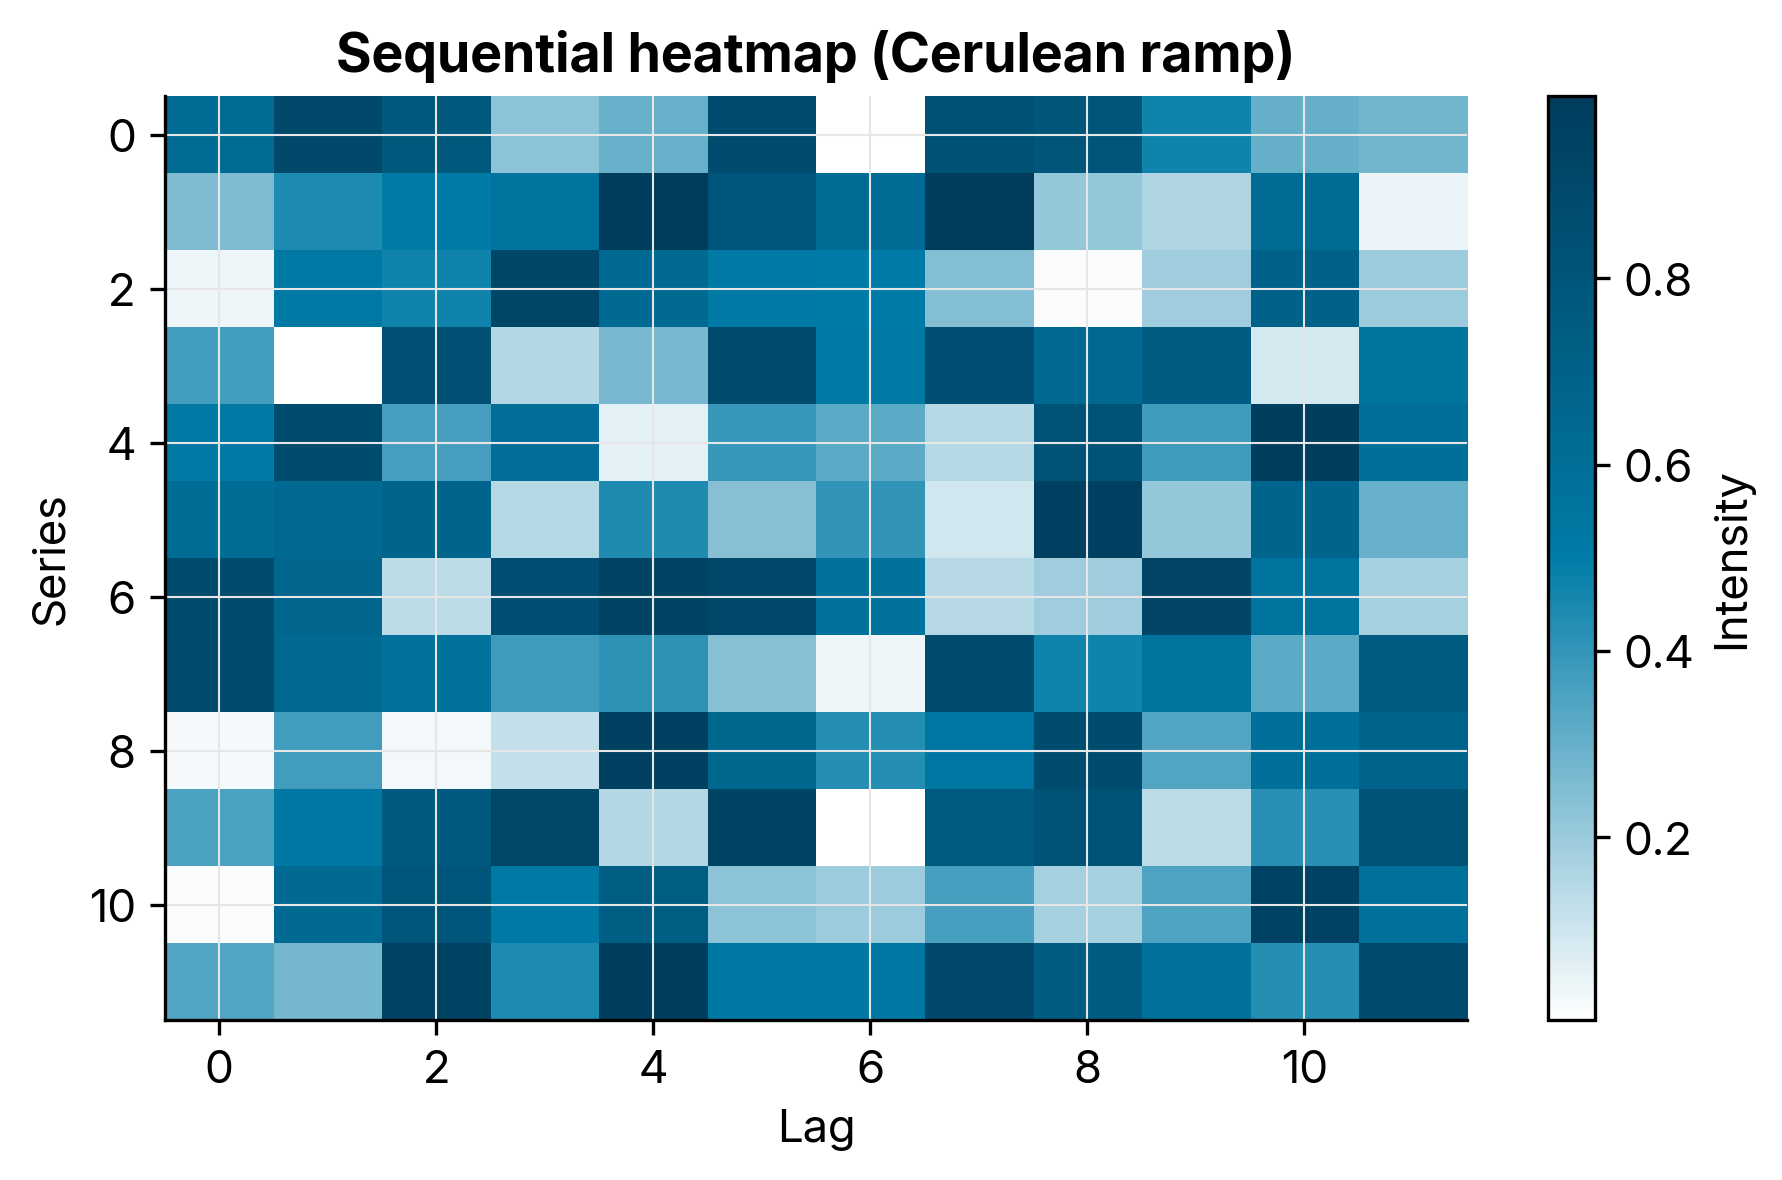
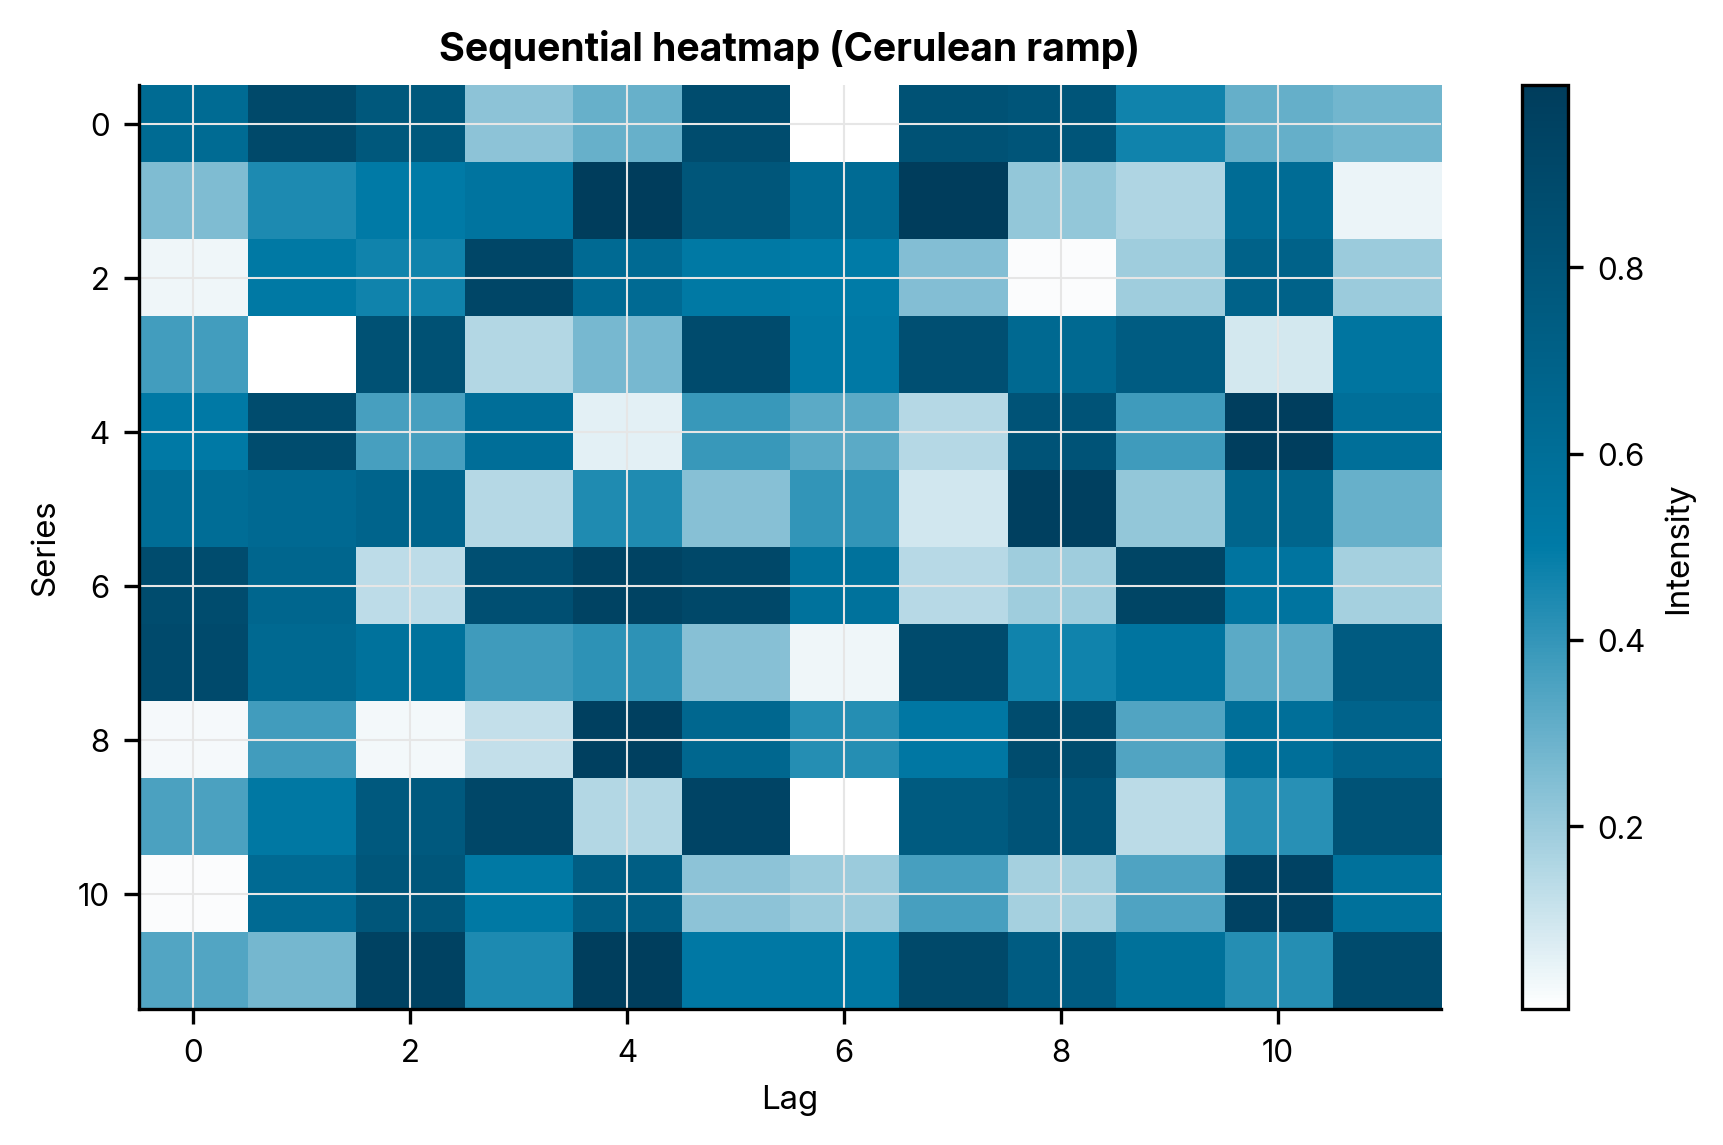
Fix showcase rendering and tighten figure/diagram standards
Figures:
- Reduce matplotlib font sizes (body 11->7.5, title 13->9.5, labels 11->8)
  in brand.mplstyle so figure type matches body text; regenerate figures.
- Cap figure display width at the 7in design width and centre (extra.css),
  so wide screens no longer scale the raster type past the body text.

Mermaid:
- Quote every node/edge label in the showcase and the DESIGN-SYSTEM worked
  example; unquoted +, :, and , break the Mermaid 10.x parser.
- suppressErrorRendering + orphaned-artifact sweep in mermaid-init.js so a
  parse error no longer leaks the "bomb" SVG into <body>.

Docs:
- DESIGN-SYSTEM.md: add figure display-width rule and a "quote every label"
  rule to the decision-flowchart notation; sync embedded mplstyle.
- CLAUDE.md: cross-link the Custom CSS section to the design-system catalog.

Changed region(s): [[0.0, 0.0306, 0.9843, 0.917], [0.4614, 0.214, 0.5229, 0.2751], [0.4306, 0.9476, 0.4922, 0.9782]]

diff --git a/docs/javascripts/mermaid-init.js b/docs/javascripts/mermaid-init.js
@@ -17,6 +17,11 @@
       startOnLoad: false,
       theme: 'default',
       securityLevel: 'loose',
+      // Do not inject Mermaid's "bomb" error SVG into the DOM on a parse error.
+      // Without this, mermaid.render() appends the error graphic to <body>
+      // (outside the content container), so it lands at the page bottom. Errors
+      // are still thrown to the catch handler below and logged to the console.
+      suppressErrorRendering: true,
       flowchart: {
         useMaxWidth: true,
         htmlLabels: true,
@@ -24,8 +29,20 @@
       }
     });
 
+    // Remove any orphaned Mermaid artifacts left directly on <body> by a prior
+    // failed render (the error SVG / temp measurement node). Real diagrams live
+    // inside .mermaid-container within the content, never as a direct body child,
+    // so this selector cannot touch them.
+    function clearOrphanedArtifacts() {
+      document
+        .querySelectorAll('body > svg[id^="mermaid-"], body > [id^="dmermaid-"]')
+        .forEach(node => node.remove());
+    }
+
     // Function to render diagrams
     function renderDiagrams() {
+      clearOrphanedArtifacts();
+
       // Handle multiple possible selectors:
       // - <code class="mermaid">
       // - <div class="mermaid">

diff --git a/docs/stylesheets/extra.css b/docs/stylesheets/extra.css
@@ -568,3 +568,15 @@ code {
 [data-md-color-scheme="slate"] .md-typeset table.decision-matrix td.good     { background: rgba(76, 122, 63, 0.30); }
 [data-md-color-scheme="slate"] .md-typeset table.decision-matrix td.escalate { background: rgba(201, 165, 94, 0.30); }
 [data-md-color-scheme="slate"] .md-typeset table.decision-matrix td.problem  { background: rgba(128, 0, 32, 0.28); }
+
+/* ===== Figure display width =====
+   Matplotlib figures are authored at 7 in wide. Browsers ignore the 300-dpi
+   metadata for layout and would let the raster fill the whole content column,
+   scaling its embedded type up past the body text on wide screens. Cap the
+   displayed width to the figure's design width (7 in ~= 42rem) so its 11 pt
+   type renders at body size, and centre it. Stays responsive via min(). */
+.md-typeset img {
+  max-width: min(100%, 42rem);
+  display: block;
+  margin-inline: auto;
+}

diff --git a/DESIGN-SYSTEM.md b/DESIGN-SYSTEM.md
@@ -346,29 +346,22 @@ classDef ref fill:#FFFFFF,stroke:#999999,color:#000000,stroke-dasharray:4 3;
 ```mermaid
 %%{init: {"flowchart": {"curve": "linear"}}}%%
 graph TD
-    START([Time-stamped data]) --> PLOT[Plot series<br/>Inspect raw ACF]
-    PLOT --> ROOT_TEST[Run ADF + KPSS]
-    ROOT_TEST --> UNITROOT{Unit root?}
-    UNITROOT -->|Yes| DIFF[Difference the series]
-    UNITROOT -->|No| FEATURES[Identify structure:<br/>seasonality, trend,<br/>regime breaks]
+    START(["Time-stamped data"]) --> PLOT["Plot series<br/>Inspect raw ACF"]
+    PLOT --> ROOT_TEST["Run ADF + KPSS"]
+    ROOT_TEST --> UNITROOT{"Unit root?"}
+    UNITROOT -->|Yes| DIFF["Difference the series"]
+    UNITROOT -->|No| FEATURES["Identify structure:<br/>seasonality, trend,<br/>regime breaks"]
     DIFF --> FEATURES
-    FEATURES --> FIT[Fit regression by OLS:<br/>dummies, trend, flags]
-    FIT --> DIAG[Residual diagnostics:<br/>ACF + Ljung-Box]
-    DIAG --> RESID{Residuals i.i.d.?}
-    RESID -->|No| GOAL{Goal?}
-    RESID -->|Yes| SQ_TEST[Test squared residuals]
-    SQ_TEST --> SQACF{Variance<br/>autocorrelated?}
-    SQACF -->|No| OLSOK[Model: linear regression<br/>with i.i.d. errors<br/>Estimator: OLS]
-    SQACF -->|Yes| GARCH[Model: regression mean<br/>+ GARCH variance<br/>Estimator: joint MLE]
-    GOAL -->|Inference,<br/>mild autocorrelation| HAC[Model: linear regression<br/>Estimator: OLS<br/>Inference: HAC SEs]
-    GOAL -->|Forecasting or<br/>persistent autocorrelation| TS[Model: regression + ARMA errors<br/>Estimator: MLE]
-
-    class START terminator
-    class PLOT,ROOT_TEST,DIFF,FEATURES,FIT,DIAG,SQ_TEST process
-    class UNITROOT,RESID,GOAL,SQACF decision
-    class OLSOK good
-    class GARCH,HAC escalate
-    class TS problem
+    FEATURES --> FIT["Fit regression by OLS:<br/>dummies, trend, flags"]
+    FIT --> DIAG["Residual diagnostics:<br/>ACF + Ljung-Box"]
+    DIAG --> RESID{"Residuals i.i.d.?"}
+    RESID -->|No| GOAL{"Goal?"}
+    RESID -->|Yes| SQ_TEST["Test squared residuals"]
+    SQ_TEST --> SQACF{"Variance<br/>autocorrelated?"}
+    SQACF -->|No| OLSOK["Model: linear regression<br/>with i.i.d. errors<br/>Estimator: OLS"]
+    SQACF -->|Yes| GARCH["Model: regression mean<br/>+ GARCH variance<br/>Estimator: joint MLE"]
+    GOAL -->|"Inference,<br/>mild autocorrelation"| HAC["Model: linear regression<br/>Estimator: OLS<br/>Inference: HAC SEs"]
+    GOAL -->|"Forecasting or<br/>persistent autocorrelation"| TS["Model: regression + ARMA errors<br/>Estimator: MLE"]
 
     classDef terminator fill:#E6F2F7,stroke:#007BA7,color:#1A1A1A;
     classDef process fill:#FFFFFF,stroke:#5A6B73,color:#1A1A1A;
@@ -376,6 +369,13 @@ graph TD
     classDef good fill:#DCEFD8,stroke:#4A7A3F,color:#1A1A1A;
     classDef escalate fill:#FFE9C2,stroke:#C9A55E,color:#1A1A1A;
     classDef problem fill:#F2D9DE,stroke:#800020,color:#1A1A1A;
+
+    class START terminator
+    class PLOT,ROOT_TEST,DIFF,FEATURES,FIT,DIAG,SQ_TEST process
+    class UNITROOT,RESID,GOAL,SQACF decision
+    class OLSOK good
+    class GARCH,HAC escalate
+    class TS problem
 ```
 
 **Rules.**
@@ -387,6 +387,7 @@ graph TD
 - **Direction.** Use `TD` for decision workflows and `LR` for sequences.
 - **Node IDs.** Use `SCREAMING_SNAKE_CASE`, semantic rather than `A`/`B`.
 - **Applying classes.** Assign classes with `class <ID>[,<ID>...] <className>` statements after the edges, not the inline `:::className` shorthand. The statement form is the most compatible across the Mermaid 10.x renderer the site loads; the inline shorthand on shaped, edge-chained nodes can raise a parse error there.
+- **Quote every label.** Wrap all node and edge labels in double quotes, as in `OK["Model: OLS"]` and `-->|"Yes, persistent"|`. Characters such as `+`, `:`, `(`, and `,` raise a parse error in the Mermaid 10.x renderer the site loads when the label is unquoted; quoting is unconditional so the rule never has to be reconsidered per label.
 - **Text.** No emojis; use `<br/>` for line breaks; outcome terminals name **model → estimator → inference** in that order.
 - **Accessibility.** Type is encoded by shape first, colour reinforces, and the outcome category is also stated in the node text, so colour is never the sole signal (WCAG 1.4.1).
 
@@ -448,10 +449,10 @@ savefig.transparent: False
 # Inter matches the book's body typeface; registered by brand.py from assets/fonts/.
 font.family: sans-serif
 font.sans-serif: Inter, Helvetica Neue, Arial, DejaVu Sans
-font.size: 11
-axes.titlesize: 13
+font.size: 7.5
+axes.titlesize: 9.5
 axes.titleweight: bold
-axes.labelsize: 11
+axes.labelsize: 8
 
 axes.spines.top: False
 axes.spines.right: False
@@ -476,6 +477,8 @@ brand.use_brand_style("cb")    # colorblind-safe (Okabe-Ito) palette
 ```
 
 The helper drives the book's own figure-generation pipeline, which produces the committed PNG and SVG figures. Code copy-pasted by a reader is illustrative and is not expected to import this module.
+
+**Display width.** Figures are authored at 7 inches wide. Browsers ignore the 300-dpi metadata for layout, so an unconstrained raster fills the whole content column and scales its embedded type up past the body text on wide screens. The figure rule in `extra.css` therefore caps the *displayed* width to the design width (`max-width: min(100%, 42rem)`, ~7 in) and centres the image, so the figure's 11 pt type renders at body size. This is a display-layer rule and does not change the figure files; regeneration is unaffected.
 
 **Mermaid.** Diagrams use the `classDef` sets from the decision-flowchart notation above, replacing any ad-hoc `fill:` styling.
 

diff --git a/docs/design-system-showcase.md b/docs/design-system-showcase.md
@@ -121,20 +121,20 @@ Brand palette:
 ```mermaid
 %%{init: {"flowchart": {"curve": "linear"}}}%%
 graph TD
-    START([Time-stamped data]) --> ROOT_TEST[Run ADF + KPSS]
-    ROOT_TEST --> UNITROOT{Unit root?}
-    UNITROOT -->|Yes| DIFF[Difference the series]
-    UNITROOT -->|No| OK[Model: OLS<br/>Estimator: OLS]
-
-    class START terminator
-    class ROOT_TEST,DIFF process
-    class UNITROOT decision
-    class OK good
+    START(["Time-stamped data"]) --> ROOT_TEST["Run ADF + KPSS"]
+    ROOT_TEST --> UNITROOT{"Unit root?"}
+    UNITROOT -->|Yes| DIFF["Difference the series"]
+    UNITROOT -->|No| OK["Model: OLS<br/>Estimator: OLS"]
 
     classDef terminator fill:#E6F2F7,stroke:#007BA7,color:#1A1A1A;
     classDef process fill:#FFFFFF,stroke:#5A6B73,color:#1A1A1A;
     classDef decision fill:#EFE7F0,stroke:#9B7FA7,color:#1A1A1A;
     classDef good fill:#DCEFD8,stroke:#4A7A3F,color:#1A1A1A;
+
+    class START terminator
+    class ROOT_TEST,DIFF process
+    class UNITROOT decision
+    class OK good
 ```
 
 Colorblind-safe palette (same diagram):
@@ -142,20 +142,20 @@ Colorblind-safe palette (same diagram):
 ```mermaid
 %%{init: {"flowchart": {"curve": "linear"}}}%%
 graph TD
-    START([Time-stamped data]) --> ROOT_TEST[Run ADF + KPSS]
-    ROOT_TEST --> UNITROOT{Unit root?}
-    UNITROOT -->|Yes| DIFF[Difference the series]
-    UNITROOT -->|No| OK[Model: OLS<br/>Estimator: OLS]
-
-    class START terminator
-    class ROOT_TEST,DIFF process
-    class UNITROOT decision
-    class OK good
+    START(["Time-stamped data"]) --> ROOT_TEST["Run ADF + KPSS"]
+    ROOT_TEST --> UNITROOT{"Unit root?"}
+    UNITROOT -->|Yes| DIFF["Difference the series"]
+    UNITROOT -->|No| OK["Model: OLS<br/>Estimator: OLS"]
 
     classDef terminator fill:#56B4E9,stroke:#005A7A,color:#000000;
     classDef process fill:#FFFFFF,stroke:#000000,color:#000000;
     classDef decision fill:#0072B2,stroke:#003D5C,color:#FFFFFF;
     classDef good fill:#009E73,stroke:#005A41,color:#FFFFFF;
+
+    class START terminator
+    class ROOT_TEST,DIFF process
+    class UNITROOT decision
+    class OK good
 ```
 
 ## Static figures

diff --git a/CLAUDE.md b/CLAUDE.md
@@ -35,6 +35,8 @@ All three systems are SPA-aware, hooking into Material theme's `document$.subscr
 - `docs/stylesheets/extra.css` — Custom admonitions: `theorem` (purple), `definition` (teal). Hypothesis test boxes. Mermaid centering.
 - `docs/stylesheets/glossary.css` — Drawer panel, overlay, animations.
 
+These files are the runtime source of truth for tokens and components; `DESIGN-SYSTEM.md` (repo root) is their authoritative catalog. See Content Conventions below and the design system's Governance tier for the catalog-vs-implementation relationship.
+
 ## Content Conventions
 
 - **No emojis** in content or diagrams
